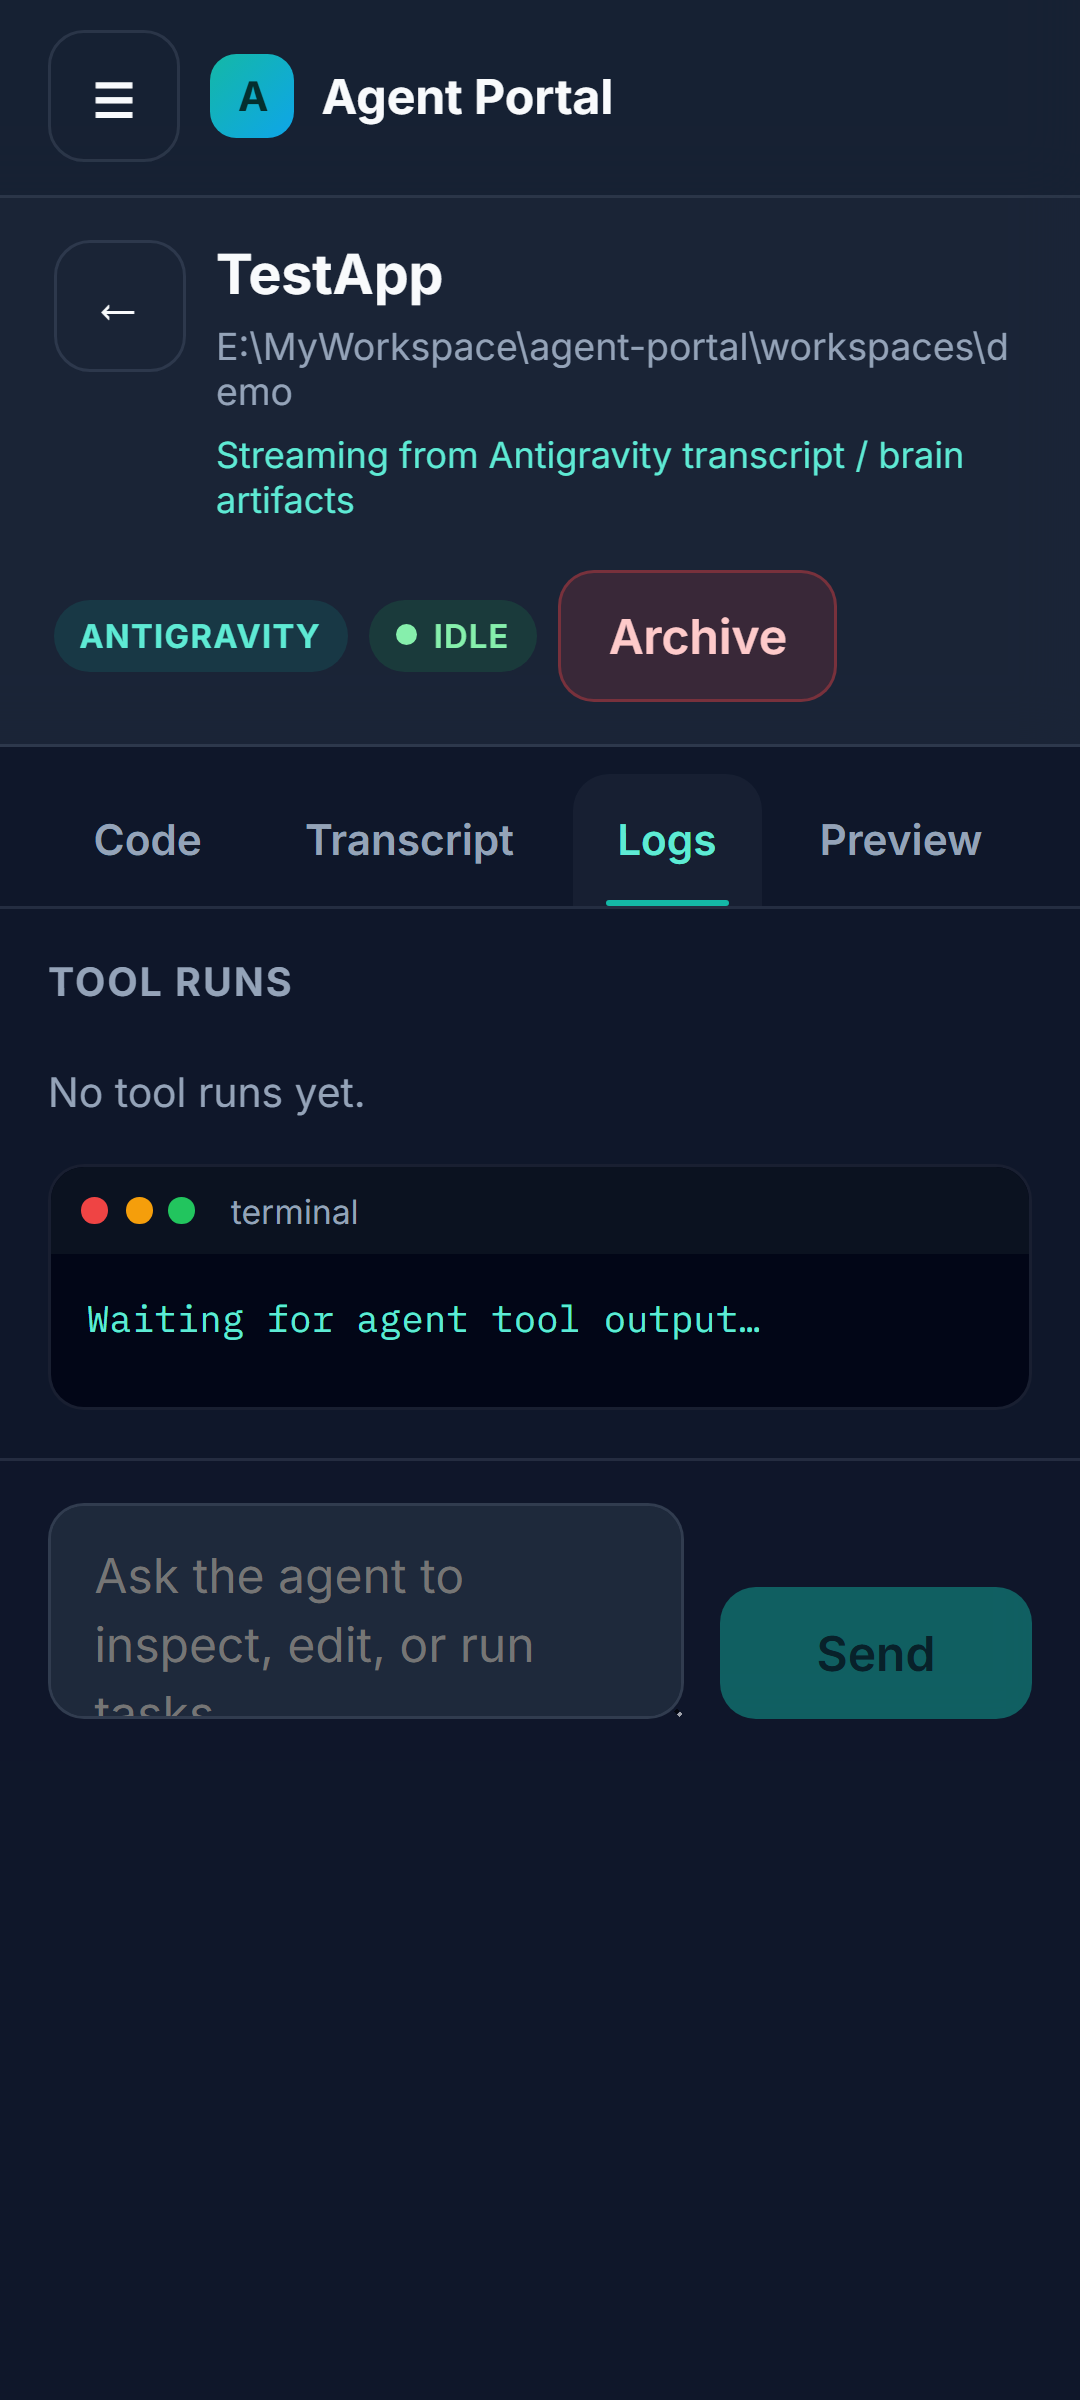
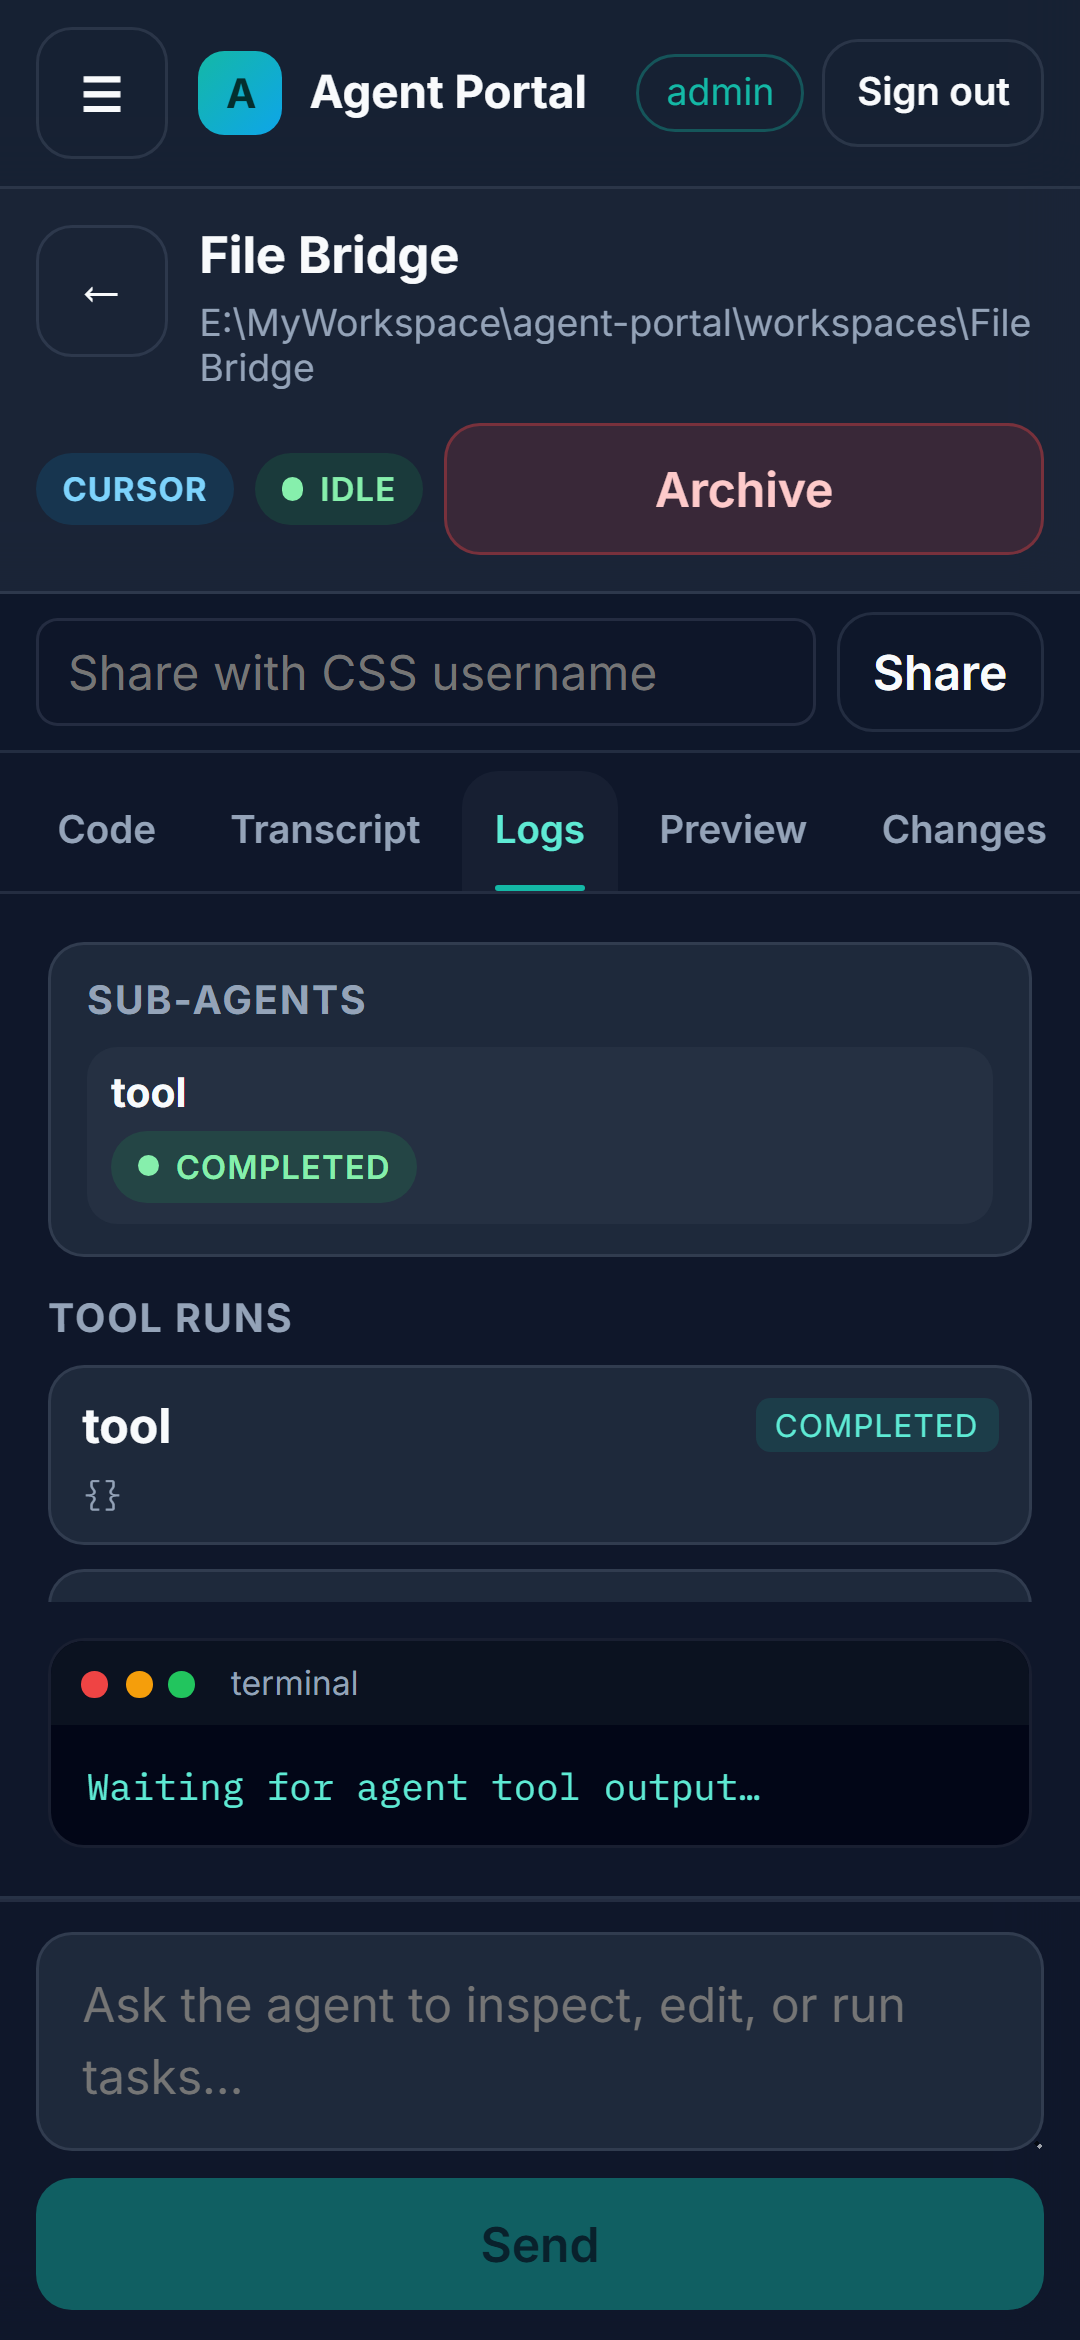
Add Realme P2 Pro full-screen Playwright flow and document it.
Capture login-through-tabs mobile screenshots, document the new spec, and add a project rule that keeps commits free of AI attribution trailers.

diff --git a/e2e/tests/realme-p2-pro-full-test.spec.ts b/e2e/tests/realme-p2-pro-full-test.spec.ts
@@ -1,0 +1,183 @@
+import { test } from '@playwright/test';
+
+// Realme P2 Pro viewport (common mobile size)
+const REALME_P2_PRO = { width: 360, height: 780 };
+
+test.describe('Realme P2 Pro - Full Screen Testing', () => {
+
+  test.use({
+    viewport: REALME_P2_PRO,
+    userAgent: 'Mozilla/5.0 (Linux; Android 13; Realme P2 Pro) AppleWebKit/537.36 (KHTML, like Gecko) Chrome/120.0.0.0 Mobile Safari/537.36',
+    isMobile: true,
+    hasTouch: true,
+  });
+
+  test('Realme P2 Pro - Complete Mobile Flow + Screenshots', async ({ page }) => {
+    test.setTimeout(120_000);
+
+    const baseURL = process.env['APP_URL'] || 'http://localhost:4200';
+    const username = process.env['CSS_USER'] || 'admin';
+    const password = process.env['CSS_PASSWORD'] || 'admin123';
+
+    // ============================================
+    // 1. LOGIN SCREEN
+    // ============================================
+    await page.goto(baseURL);
+    await page.waitForLoadState('networkidle');
+    await page.waitForTimeout(1500);
+    await page.screenshot({
+      path: 'screenshots/realme-p2-pro/01-login-screen.png',
+      fullPage: true,
+    });
+
+    // Login (CSS overlay when enabled; otherwise shell is already visible)
+    const loginOverlay = page.getByTestId('login-overlay');
+    const usernameField = page.getByTestId('login-username')
+      .or(page.getByRole('textbox', { name: /user/i }))
+      .or(page.locator('input[type="text"], input[placeholder*="user" i]'));
+    const passwordField = page.getByTestId('login-password')
+      .or(page.getByRole('textbox', { name: /pass/i }))
+      .or(page.locator('input[type="password"], input[placeholder*="pass" i]'));
+    const loginButton = page.getByTestId('login-submit')
+      .or(page.locator('button:has-text("Login"), button[type="submit"], button:has-text("Sign in")'));
+
+    if (await loginOverlay.isVisible().catch(() => false) || await usernameField.first().isVisible().catch(() => false)) {
+      await usernameField.first().fill(username);
+      await passwordField.first().fill(password);
+      await loginButton.first().click();
+      await page.waitForLoadState('networkidle');
+      await page.waitForTimeout(2500);
+    }
+
+    await page.screenshot({
+      path: 'screenshots/realme-p2-pro/02-after-login.png',
+      fullPage: true,
+    });
+
+    // ============================================
+    // 2. MAIN SESSION LIST + FAB
+    // ============================================
+    await page.screenshot({
+      path: 'screenshots/realme-p2-pro/03-session-list.png',
+      fullPage: true,
+    });
+
+    // ============================================
+    // 3. CREATE SESSION via FAB (Mobile)
+    // ============================================
+    const fab = page.getByTestId('fab-new-session')
+      .or(page.locator('button[aria-label*="create" i], .fab, button:has-text("+"), [data-testid="fab-create"]'));
+
+    if (await fab.count() > 0) {
+      await fab.first().click();
+      await page.waitForTimeout(1200);
+      await page.screenshot({
+        path: 'screenshots/realme-p2-pro/04-create-session-fab.png',
+        fullPage: true,
+      });
+
+      // Fill session details if form appears
+      const promptInput = page.locator('textarea, input[placeholder*="prompt" i], input[name="title"]');
+      if (await promptInput.count() > 0) {
+        await promptInput.first().fill('Test prompt on Realme P2 Pro');
+      }
+
+      // Close dialog
+      const cancel = page.getByRole('button', { name: 'Cancel' });
+      if (await cancel.count() > 0) {
+        await cancel.click();
+      } else {
+        await page.keyboard.press('Escape');
+      }
+      await page.waitForTimeout(800);
+    }
+
+    // ============================================
+    // 4. OPEN A SESSION (create one if list is empty)
+    // ============================================
+    const mobileList = page.getByTestId('mobile-session-list');
+    let firstSession = mobileList.getByTestId('session-card').first();
+
+    if (!(await firstSession.isVisible().catch(() => false))) {
+      await fab.first().click();
+      const dialog = page.getByTestId('create-session-dialog');
+      if (await dialog.isVisible().catch(() => false)) {
+        await dialog.locator('input[name="title"]').fill('Realme P2 Pro QA');
+        await dialog.locator('input[name="workspace"]').fill('demo');
+        const antigravity = dialog.locator('input[value="antigravity"]');
+        if (await antigravity.count() > 0) {
+          await antigravity.check();
+        }
+        await dialog.getByRole('button', { name: /Create/i }).click();
+        await page.waitForTimeout(2000);
+      }
+    } else {
+      await firstSession.click();
+    }
+
+    const sessionDetail = page.getByTestId('session-detail');
+    if (await sessionDetail.isVisible({ timeout: 15_000 }).catch(() => false)) {
+      await page.waitForLoadState('networkidle');
+      await page.waitForTimeout(2000);
+
+      await page.screenshot({
+        path: 'screenshots/realme-p2-pro/05-session-detail.png',
+        fullPage: true,
+      });
+
+      // ============================================
+      // 5. TEST ALL TABS (Mobile)
+      // ============================================
+      const tabs = ['Transcript', 'Logs', 'Code', 'Preview', 'Changes', 'History'];
+
+      for (const tabName of tabs) {
+        const tab = page.locator(`button:has-text("${tabName}"), [role="tab"]:has-text("${tabName}"), .tab:has-text("${tabName}")`);
+
+        if (await tab.count() > 0) {
+          await tab.first().click();
+          await page.waitForTimeout(1800);
+          await page.screenshot({
+            path: `screenshots/realme-p2-pro/06-${tabName.toLowerCase()}-tab.png`,
+            fullPage: true,
+          });
+        }
+      }
+
+      // ============================================
+      // 6. SUB-AGENT / TASK PANEL (if exists)
+      // ============================================
+      const subAgentBtn = page.locator('button:has-text("Sub-agent"), button:has-text("Tasks"), [aria-label*="sub"]');
+      if (await subAgentBtn.count() > 0) {
+        await subAgentBtn.first().click();
+        await page.waitForTimeout(1500);
+        await page.screenshot({
+          path: 'screenshots/realme-p2-pro/07-subagent-panel.png',
+          fullPage: true,
+        });
+      }
+    }
+
+    // ============================================
+    // 7. DRAWER / MENU (Mobile Navigation)
+    // ============================================
+    const menuButton = page.locator('button[aria-label*="menu" i], .menu-button, button[aria-label*="drawer" i]');
+    if (await menuButton.count() > 0) {
+      await menuButton.first().click();
+      await page.waitForTimeout(1000);
+      await page.screenshot({
+        path: 'screenshots/realme-p2-pro/08-drawer-menu.png',
+        fullPage: true,
+      });
+    }
+
+    // ============================================
+    // 8. FINAL OVERVIEW
+    // ============================================
+    await page.screenshot({
+      path: 'screenshots/realme-p2-pro/09-final-overview.png',
+      fullPage: true,
+    });
+
+    console.log('✅ Realme P2 Pro testing completed! All screenshots saved.');
+  });
+});

diff --git a/e2e/README.md b/e2e/README.md
@@ -68,7 +68,7 @@ Other scripts:
 
 ## Output
 
-- **Screenshots:** `e2e/screenshots/realme-p2-pro/` (`01-home.png` … `07-code-tab.png`)
+- **Screenshots:** `e2e/screenshots/realme-p2-pro/` (unit shots `01-home.png` … `07-code-tab.png`, plus full-flow shots below)
 - **HTML report:** `e2e/playwright-report/` (open with `npm run report`)
 - **Artifacts on failure:** `e2e/test-results/` (trace, video when enabled)
 
@@ -83,6 +83,38 @@ File: `tests/realme-p2-pro.spec.ts`
 5. Session detail: tabs **Transcript**, **Logs**, **Code**, **Preview**; prompt input near bottom; Logs and Code empty states
 
 If no sessions exist, the detail test creates one via the FAB (Antigravity + workspace `demo`).
+
+## Realme P2 Pro full-screen flow
+
+File: `tests/realme-p2-pro-full-test.spec.ts`
+
+End-to-end mobile walkthrough that logs in (when CSS overlay is present), exercises the FAB create dialog, opens a session (creates one if the list is empty), captures every session tab, and screenshots drawer navigation.
+
+```powershell
+cd e2e
+npx playwright test realme-p2-pro-full-test.spec.ts --project=realme-p2-pro
+# headed:
+npx playwright test realme-p2-pro-full-test.spec.ts --project=realme-p2-pro --headed
+```
+
+Optional env overrides: `APP_URL`, `CSS_USER`, `CSS_PASSWORD`.
+
+Full-flow screenshots written under `screenshots/realme-p2-pro/`:
+
+| File | Step |
+|------|------|
+| `01-login-screen.png` | Login / CSS overlay |
+| `02-after-login.png` | Post-login shell |
+| `03-session-list.png` | Mobile session list |
+| `04-create-session-fab.png` | New session dialog via FAB |
+| `05-session-detail.png` | Opened session |
+| `06-*-tab.png` | Transcript, Logs, Code, Preview, Changes, History |
+| `08-drawer-menu.png` | Mobile drawer / menu (when present) |
+| `09-final-overview.png` | Final frame |
+
+```powershell
+explorer screenshots\realme-p2-pro
+```
 
 ## `data-testid` hooks
 

diff --git a/.cursor/skills/ap-e2e/SKILL.md b/.cursor/skills/ap-e2e/SKILL.md
@@ -13,9 +13,11 @@ Add tablet (Realme Pad–like) and desktop Playwright projects alongside `realme
 ## Build plan
 1. Projects in `e2e/playwright.config.ts`: `tablet-1024`, `desktop-1440`.
 2. Specs: sidebar visible on tablet/desktop; FAB hidden on desktop; create dialog; tabs.
-3. Optional CI workflow: install browsers, start backend/frontend, run `npm test`.
-4. Keep `data-testid` as primary selectors; update `e2e/README.md`.
+3. Full mobile walkthrough: `tests/realme-p2-pro-full-test.spec.ts` (login → FAB → session tabs → drawer screenshots).
+4. Optional CI workflow: install browsers, start backend/frontend, run `npm test`.
+5. Keep `data-testid` as primary selectors; update `e2e/README.md`.
 
 ## Constraints
 - `workers: 1` if sharing backend session state
 - Do not commit `test-results/` or `playwright-report/`
+- Prefer Agent Portal `data-testid` hooks over generic CSS when writing full-flow specs